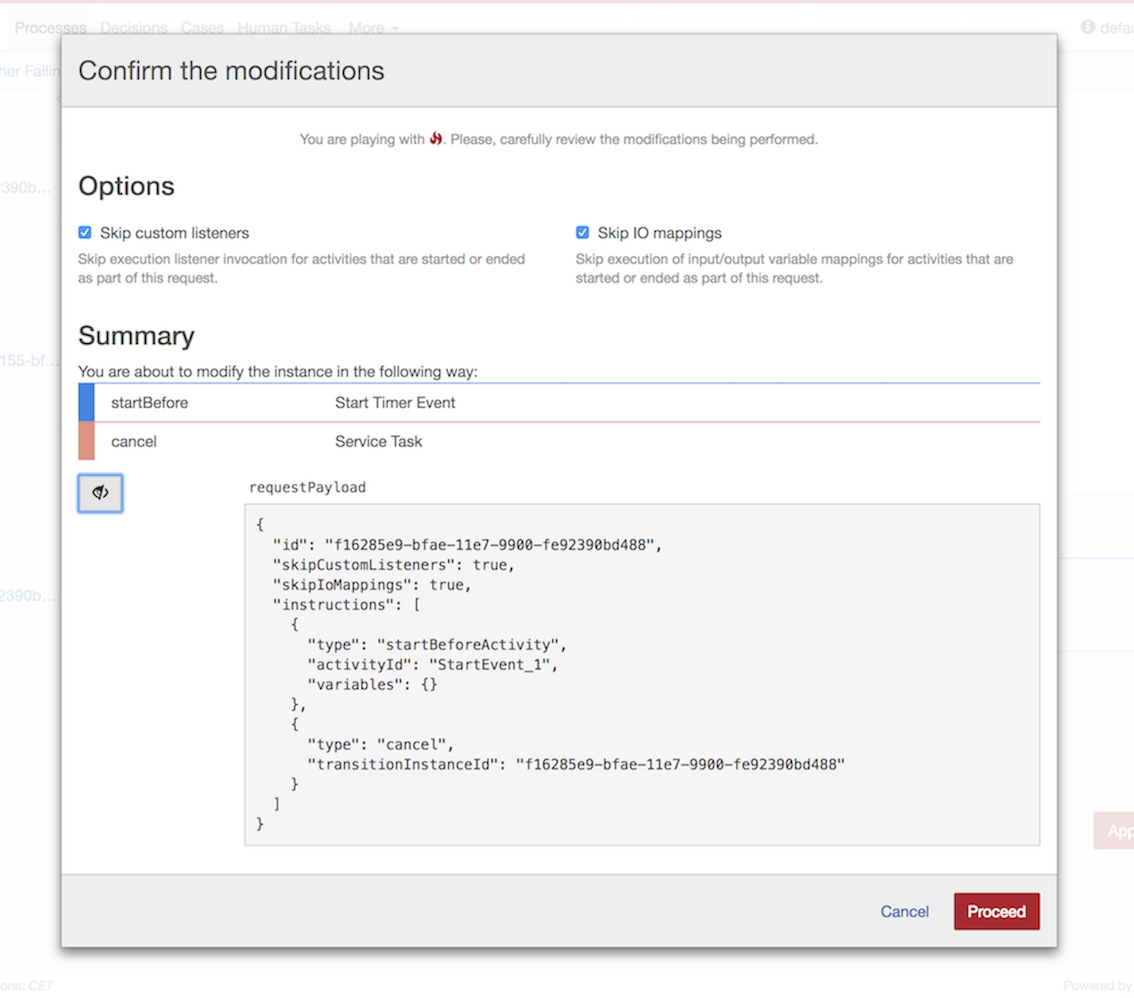
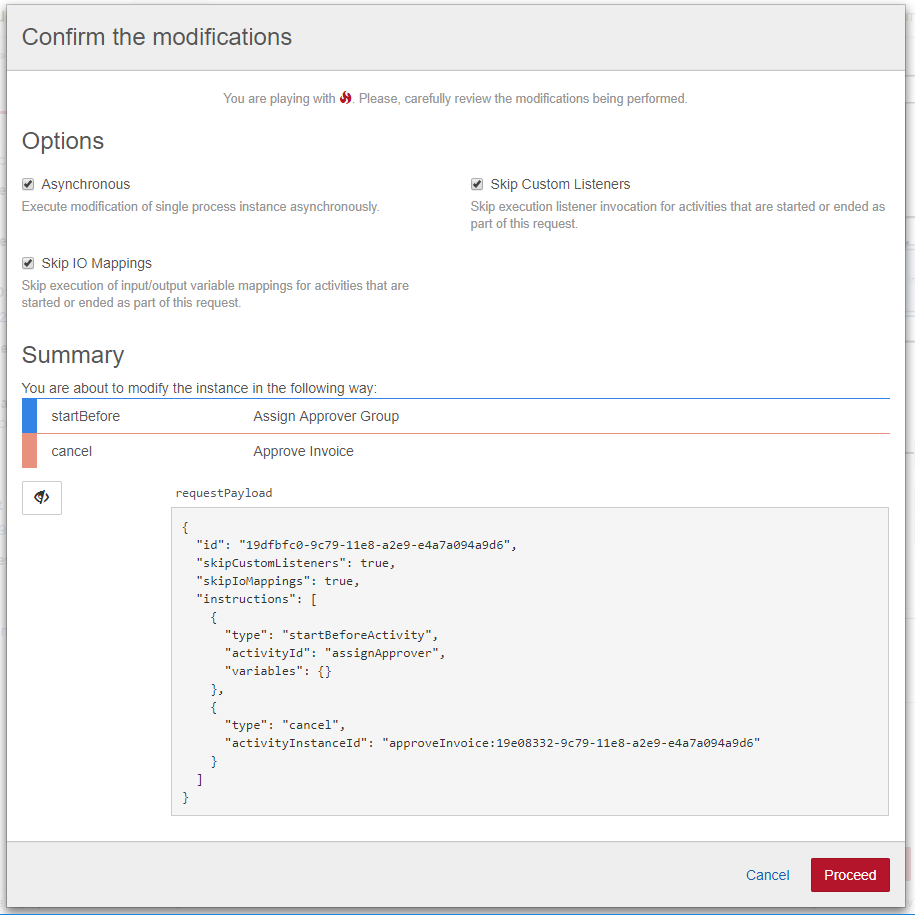
chore(cockpit): update Instance modification docs
* add async to single modification

Related to CAM-9233

diff --git a/content/webapps/cockpit/bpmn/process-instance-modification.md b/content/webapps/cockpit/bpmn/process-instance-modification.md
@@ -65,7 +65,7 @@ When starting activities with a multi-instance flag, there is the option to eith
 
 At any point during the creation of the modification, you can show the payload of the modification by clicking the {{< glyphicon name="eye-open" >}} button. This will show the request payload that will be sent via the [REST API]({{< relref "reference/rest/index.md" >}}).
 
-To perform the modification, you have to click on *Apply modifications*. Then you have a last chance to review the changes you are about to make and also review the request payload. After confirming the change, the modification is executed and the page is updated with the new execution state of the process instance.
+To perform the modification, you have to click on *Apply modifications*. Then you have a last chance to review the changes you are about to make and also review the request payload. You have an option to execute the modification *Asynchronous*. After confirming the change, the modification is executed and the page is updated with the new execution state of the process instance.
 
 {{< note title="Semantics of Process Instance Modification" class="warning">}}
   The exact semantics of process instance modification as well as the underlying REST and Java API can be read about in the [Process Instance Modification section]({{< relref "user-guide/process-engine/process-instance-modification.md" >}}) of the user guide.
